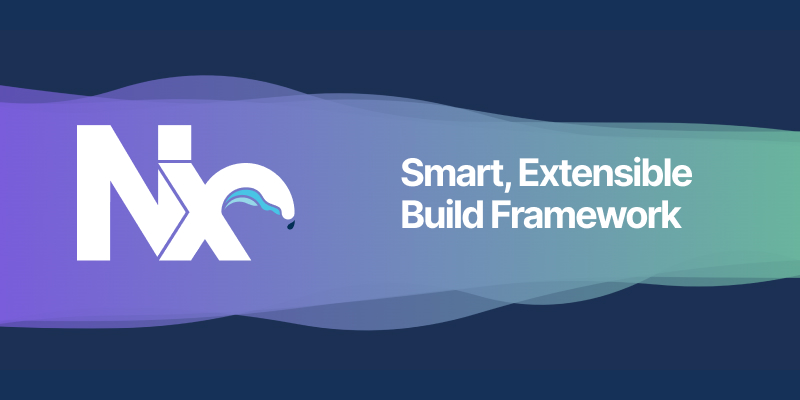
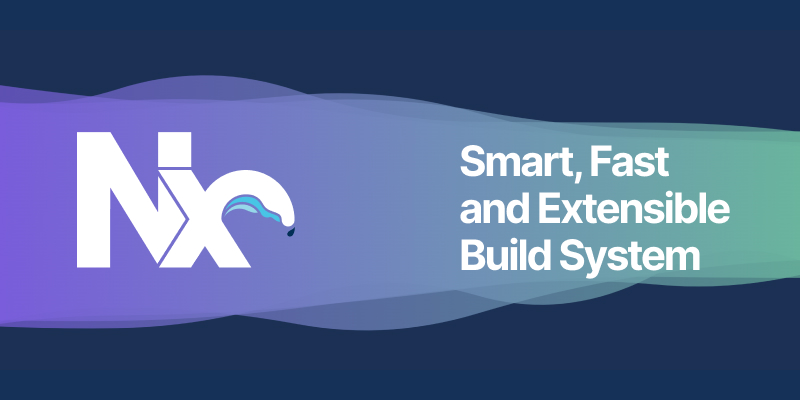
docs(nxdev): homepage vertical layout (#8211)

diff --git a/nx-dev/nx-dev/pages/index.tsx b/nx-dev/nx-dev/pages/index.tsx
@@ -8,7 +8,6 @@ import {
   NpxCreateNxWorkspace,
   NxUsersShowcase,
 } from '@nrwl/nx-dev/ui-common';
-import { sendCustomEvent } from '@nrwl/nx-dev/feature-analytics';
 import {
   AffectedCommand,
   CloudSupport,
@@ -25,7 +24,6 @@ import {
   VscodePlugin,
   YoutubeChannel,
 } from '@nrwl/nx-dev/ui-home';
-import { InlineCommand } from '@nrwl/nx-dev/ui-commands';
 
 export function Index() {
   const router = useRouter();
@@ -33,8 +31,8 @@ export function Index() {
   return (
     <>
       <NextSeo
-        title="Nx: Smart, Extensible Build Framework"
-        description="Nx is a smart and extensible build framework to help you architect, test, and build at any scale — integrating seamlessly with modern technologies and frameworks while providing a distributed graph-based task execution, computation caching, smart rebuilds of affected projects, powerful code generators, editor support, GitHub apps, full monorepo support and more."
+        title="Nx: Smart, Fast and Extensible Build System"
+        description="Next generation build system with first class monorepo support and powerful integrations."
         openGraph={{
           url: 'https://nx.dev',
           title: 'Nx: Smart, Extensible Build Framework',
@@ -49,7 +47,7 @@ export function Index() {
               type: 'image/jpeg',
             },
           ],
-          site_name: 'NxDev',
+          site_name: 'Nx',
           type: 'website',
         }}
       />
@@ -64,64 +62,35 @@ export function Index() {
               backgroundImage: 'url(/images/background/hero-bg-large.svg)',
             }}
           >
-            <div className="max-w-screen-lg xl:max-w-screen-xl mx-auto px-4 py-4 md:py-24">
-              <div className="my-8 md:my-18 2xl:my-24 flex lg:flex-row flex-col items-center justify-center">
-                <div className="w-full lg:w-1/2 flex flex-col">
-                  <h1 className="text-center md:text-left text-4xl sm:text-5xl lg:text-6xl leading none font-extrabold tracking-tight sm:mt-10 mb-8 sm:mt-14 sm:mb-10">
-                    <span className="block md:inline">Smart, Extensible</span>{' '}
-                    Build Framework
+            <div className="max-w-screen-lg xl:max-w-screen-xl mx-auto px-4 py-4 md:py-18">
+              <div className="my-8 md:my-18 2xl:my-24 flex  flex-col items-center justify-center">
+                <div className="w-full text-center flex flex-col">
+                  <h1 className="text-4xl sm:text-5xl lg:text-5xl leading-none font-extrabold tracking-tight sm:mt-10 mb-8 sm:mt-14 sm:mb-10">
+                    <span className="block lg:inline">
+                      Smart, Fast and Extensible
+                    </span>{' '}
+                    Build System
                   </h1>
-                  <h2 className="text-2xl font-medium mb-1">
-                    Nx helps <b>architect</b>, <b>test</b>, and <b>build</b> at
-                    any scale:
+                  <h2 className="max-w-2xl mx-auto text-2xl font-semibold mb-10 sm:mb-11">
+                    Next generation build system with first class monorepo
+                    support and powerful integrations.
                   </h2>
-                  <p className="max-w-screen-lg text-lg font-medium mb-10 sm:mb-11 flex flex-wrap">
-                    <span className="rounded px-1 mr-1 mb-1 text-white bg-blue-nx-base">
-                      integrations with modern frameworks
-                    </span>
-                    <span className="rounded px-1 mr-1 mb-1 text-white bg-blue-nx-base">
-                      computation caching
-                    </span>
-                    <span className="rounded px-1 mr-1 mb-1 text-white bg-blue-nx-base">
-                      smart rebuilds of affected projects
-                    </span>
-                    <span className="rounded px-1 mr-1 mb-1 text-white bg-blue-nx-base">
-                      distributed task execution
-                    </span>
-                    <span className="rounded px-1 mr-1 mb-1 text-white bg-blue-nx-base">
-                      powerful code generators
-                    </span>
-                    <span className="rounded px-1 mr-1 mb-1 text-white bg-blue-nx-base">
-                      editor support
-                    </span>
-                    <span className="rounded px-1 mr-1 mb-1 text-white bg-blue-nx-base">
-                      GitHub apps
-                    </span>
-                    and more.
-                  </p>
-
-                  <div className="flex flex-wrap space-y-4 sm:space-y-0 sm:space-x-4 text-center">
-                    <Link href="#getting-started">
-                      <a className="w-full sm:w-auto flex-none bg-white text-blue-nx-base hover:text-blue-nx-dark hover:bg-gray-100 text-lg leading-6 font-semibold py-3 px-6 border border-transparent rounded-md focus:ring-2 focus:ring-offset-2 focus:ring-offset-white transition">
-                        Get Started
-                      </a>
-                    </Link>
-
-                    <InlineCommand
-                      language={'bash'}
-                      command={'npx create-nx-workspace'}
-                      callback={() =>
-                        sendCustomEvent(
-                          'code-snippets',
-                          'click',
-                          router.pathname
-                        )
-                      }
-                    />
-                  </div>
                 </div>
-                <div className="hidden sm:flex w-full lg:w-1/2 flex-col justify-between items-center lg:pl-16 lg:pb-0 pb-10 mt-8 lg:mt-0">
+                <div className="max-w-2xl mx-auto hidden sm:flex w-full  flex-col justify-between items-center lg:pb-0 pb-10 mt-8 lg:mt-0">
                   <NpxCreateNxWorkspace />
+                </div>
+                <div className="my-14 flex flex-wrap sm:space-x-4 text-center">
+                  <Link href="#getting-started">
+                    <a className="w-full sm:w-auto flex-none bg-white text-blue-nx-base hover:text-blue-nx-dark hover:bg-gray-100 text-lg leading-6 font-semibold py-3 px-6 border border-transparent rounded-md focus:ring-2 focus:ring-offset-2 focus:ring-offset-white transition">
+                      Create Nx Workspace
+                    </a>
+                  </Link>
+
+                  <Link href="/l/r/migration/adding-to-monorepo">
+                    <a className="w-full sm:w-auto flex-none bg-white text-blue-nx-base hover:text-blue-nx-dark hover:bg-gray-100 text-lg leading-6 font-semibold py-3 px-6 border border-transparent rounded-md focus:ring-2 focus:ring-offset-2 focus:ring-offset-white transition">
+                      Add Nx to Monorepo
+                    </a>
+                  </Link>
                 </div>
               </div>
             </div>

diff --git a/nx-dev/feature-doc-viewer/src/lib/doc-viewer.tsx b/nx-dev/feature-doc-viewer/src/lib/doc-viewer.tsx
@@ -39,12 +39,12 @@ export function DocViewer({
       <NextSeo
         noindex={version.id === 'previous'}
         title={document.data.title + ' | Nx'}
-        description="Nx is a smart and extensible build framework to help you architect, test, and build at any scale — integrating seamlessly with modern technologies and frameworks while providing a distributed graph-based task execution, computation caching, smart rebuilds of affected projects, powerful code generators, editor support, GitHub apps, full monorepo support and more."
+        description="Next generation build system with first class monorepo support and powerful integrations."
         openGraph={{
           url: 'https://nx.dev' + router.asPath,
-          title: document.data.title + ' | Nx',
+          title: document.data.title,
           description:
-            'Nx is a smart and extensible build framework to help you architect, test, and build at any scale — integrating seamlessly with modern technologies and frameworks while providing a distributed graph-based task execution, computation caching, smart rebuilds of affected projects, powerful code generators, editor support, GitHub apps, full monorepo support and more.',
+            'Next generation build system with first class monorepo support and powerful integrations.',
           images: [
             {
               url: router.asPath.includes('turbo-and-nx')
@@ -56,7 +56,7 @@ export function DocViewer({
               type: 'image/jpeg',
             },
           ],
-          site_name: 'NxDev',
+          site_name: 'Nx',
           type: 'website',
         }}
       />

diff --git a/nx-dev/nx-dev/pages/_app.tsx b/nx-dev/nx-dev/pages/_app.tsx
@@ -19,12 +19,12 @@ export default function CustomApp({ Component, pageProps }: AppProps) {
     <>
       <DefaultSeo
         title="Nx: Smart, Extensible Build Framework"
-        description="Nx helps architect, test, and build at any scale: full monorepo support, integrations with modern frameworks, computation caching, smart rebuilds of affected projects, distributed task execution, powerful code generators, editor support, GitHub apps, and more."
+        description="Next generation build system with first class monorepo support and powerful integrations."
         openGraph={{
           url: 'https://nx.dev' + router.asPath,
           title: 'Nx: Smart, Extensible Build Framework',
           description:
-            'Nx helps architect, test, and build at any scale: full monorepo support, integrations with modern frameworks, computation caching, smart rebuilds of affected projects, distributed task execution, powerful code generators, editor support, GitHub apps, and more.',
+            'Next generation build system with first class monorepo support and powerful integrations.',
           images: [
             {
               url: 'https://nx.dev/images/nx-media.jpg',
@@ -34,7 +34,7 @@ export default function CustomApp({ Component, pageProps }: AppProps) {
               type: 'image/jpeg',
             },
           ],
-          site_name: 'NxDev',
+          site_name: 'Nx',
         }}
         twitter={{
           handle: '@nrwl_io',

diff --git a/nx-dev/nx-dev/pages/angular.tsx b/nx-dev/nx-dev/pages/angular.tsx
@@ -16,12 +16,12 @@ export function AngularPage() {
     <>
       <NextSeo
         title="Nx and Modern Angular"
-        description="Nx is a suite of powerful dev tools that help developers build, test, and scale full-stack Angular applications with integration with modern libraries like Jest, Cypress, Storybook, NgRx, ESLint, full monorepo support and more."
+        description="Next generation build system with first class monorepo support and powerful integrations."
         openGraph={{
           url: 'https://nx.dev' + router.asPath,
           title: 'Nx and Modern Angular',
           description:
-            'Nx is a suite of powerful dev tools that help developers build, test, and scale full-stack Angular applications with integration with modern libraries like Jest, Cypress, Storybook, NgRx, ESLint, full monorepo support and more.',
+            'Next generation build system with first class monorepo support and powerful integrations.',
           images: [
             {
               url: 'https://nx.dev/images/nx-media.jpg',
@@ -31,7 +31,7 @@ export function AngularPage() {
               type: 'image/jpeg',
             },
           ],
-          site_name: 'NxDev',
+          site_name: 'Nx',
           type: 'website',
         }}
       />

diff --git a/nx-dev/nx-dev/pages/react.tsx b/nx-dev/nx-dev/pages/react.tsx
@@ -16,12 +16,12 @@ export function ReactPage() {
     <>
       <NextSeo
         title="Nx and React"
-        description="Nx dev tools help developers build, test, and scale full-stack React, Next.js, Gatsby, React Native projects and fully support for monorepo."
+        description="Next generation build system with first class monorepo support and powerful integrations."
         openGraph={{
           url: 'https://nx.dev' + router.asPath,
           title: 'Nx and React',
           description:
-            'Nx dev tools help developers build, test, and scale full-stack React, Next.js, Gatsby, React Native projects and fully support for monorepo.',
+            'Next generation build system with first class monorepo support and powerful integrations.',
           images: [
             {
               url: 'https://nx.dev/images/nx-media.jpg',
@@ -31,7 +31,7 @@ export function ReactPage() {
               type: 'image/jpeg',
             },
           ],
-          site_name: 'NxDev',
+          site_name: 'Nx',
           type: 'website',
         }}
       />

diff --git a/nx-dev/nx-dev/pages/node.tsx b/nx-dev/nx-dev/pages/node.tsx
@@ -60,12 +60,12 @@ export function Node() {
     <>
       <NextSeo
         title="Nx and Node"
-        description="Nx is a smart and extensible build framework to help you develop, test, build, and scale Node applications and with full monorepo support."
+        description="Next generation build system with first class monorepo support and powerful integrations."
         openGraph={{
           url: 'https://nx.dev' + router.asPath,
           title: 'Nx and Node',
           description:
-            'Nx is a smart and extensible build framework to help you develop, test, build, and scale Node applications and with full monorepo support.',
+            'Next generation build system with first class monorepo support and powerful integrations.',
           images: [
             {
               url: 'https://nx.dev/images/nx-media.jpg',
@@ -75,7 +75,7 @@ export function Node() {
               type: 'image/jpeg',
             },
           ],
-          site_name: 'NxDev',
+          site_name: 'Nx',
           type: 'website',
         }}
       />

diff --git a/nx-dev/ui-common/src/lib/npx-create-nx-workspace.tsx b/nx-dev/ui-common/src/lib/npx-create-nx-workspace.tsx
@@ -95,7 +95,7 @@ export function NpxCreateNxWorkspaceAnimation({
       transition: { ease: 'easeOut', duration: 0.24 },
     });
     await wrapper.start({
-      y: -100,
+      y: -32,
       transition: { ease: 'easeOut', duration: 0.24 },
     });
     return await restartButton.start({
@@ -121,7 +121,7 @@ export function NpxCreateNxWorkspaceAnimation({
       },
     });
     await frameworkSelectionAnswerSectionArrow.start({
-      y: 36,
+      y: 18,
       transition: { ease: 'easeOut', duration: 0.24 },
     });
     await frameworkSelectionAnswerSectionPreviousHighlight.start({

diff --git a/nx-dev/nx-dev/pages/community.tsx b/nx-dev/nx-dev/pages/community.tsx
@@ -36,6 +36,7 @@ export function Community(props: CommunityProps) {
     <>
       <NextSeo
         title="Nx Community and Plugin Listing"
+        description="There are many ways you can connect with the open-source Nx community. The community is rich and dynamic offering Nx plugins and help on multiple platforms like Github, Slack and Twitter"
         openGraph={{
           url: 'https://nx.dev' + router.asPath,
           title: 'Nx and Modern Angular',

diff --git a/nx-dev/nx-dev/public/documentation/latest/angular/guides/setup-mfe-with-angular.md b/nx-dev/nx-dev/public/documentation/latest/angular/guides/setup-mfe-with-angular.md
@@ -9,6 +9,11 @@ Therefore, using Nx it can be fairly straightforward to scaffold and build a Mic
 
 In this guide, we'll show you to how setup a Micro Frontend Architecture with Nx and Angular.
 
+_NOTE: When serving MFEs in dev mode locally, there'll be an error output to the console, `import.meta` cannot be used outside of a module, and the script that is coming from is `styles.js`. It's a known error output, but it doesn't actually cause any breakages from as far as our testing has shown. It's because the Angular compiler attaches the `styles.js` file to the `index.html` in a `<script>` tag with `defer`.  
+It needs to be attached with `type=module`, but doing so breaks HMR. There is no way of hooking into that process for us to patch it ourselves.  
+The good news is that the error doesn't propagate to production, because styles are compiled to a CSS file, so there's no erroneous JS to log an error.
+It's worth reiterating that there's been no actual errors or breakages noted from our tests._
+
 ## What we'll build
 
 We will put together a simple Admin Dashboard application that requires a user to log in to view the protected content.  
